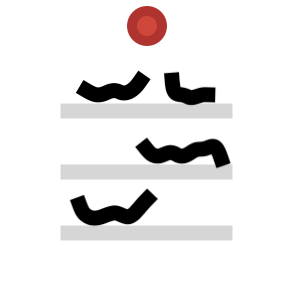
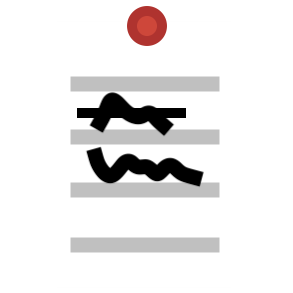
Fix dynamic board comp. scaling, update lists

Changed region(s): [[0.1843, 0.2457, 0.7986, 0.8908]]

diff --git a/src/components/boardComponents/List.js b/src/components/boardComponents/List.js
@@ -22,7 +22,7 @@ function List (props) {
 
     useEffect(() => {
         if (selectedComp === div.current) {
-            div.current.style["border"] = "5px solid red";
+            div.current.style["border"] = "5px solid rgba(225, 30, 30)";
         } else {
             div.current.style["border"] = "0px";
         }
@@ -57,29 +57,42 @@ function List (props) {
         let newBoardComps = {...boardComponents};
         newBoardComps[boardName][compIndex][4][listItemIndex][0] = e.target.value;
         setBoardComponents(newBoardComps);
+        return 1;
     }
 
     const crossOut = (e, listItemIndex) => {
-        let newBoardComps = {...boardComponents};
-        let item = newBoardComps[boardName][compIndex][4][listItemIndex]
-        item[1] = !(item[1]);
-        setBoardComponents(newBoardComps);
+        if (e.target.className !== "delete-list-item-btn") {
+            let newBoardComps = {...boardComponents};
+            let item = newBoardComps[boardName][compIndex][4][listItemIndex]
+            item[1] = !(item[1]);
+            setBoardComponents(newBoardComps);
+            return 1;
+        }
+        return 0;
     }
 
     const addListItem = (txt) => {
         let newBoardComps = {...boardComponents};
         newBoardComps[boardName][compIndex][4].push([txt, false]);
         setBoardComponents(newBoardComps);
+        return 1;
+    }
+
+    const removeListItem = (i) => {
+        let newBoardComps = {...boardComponents};
+        newBoardComps[boardName][compIndex][4].splice(i, 1);
+        setBoardComponents(newBoardComps);
+        return 1;
     }
 
 
     return <div className="list-div" ref={div} k={k} style={{
         position: "absolute",
-        left: `${posX - 405}px`,
-        top: `${posY - 200}px`,
+        left: `${(((posX - 200) / (window.innerWidth - 200)) * 100) - 10}%`,
+        top: `${((posY / window.innerHeight) * 100) - 22}%`,
         backgroundColor: color
     }}>
-        <Pin/>
+        <Pin className="pin"/>
         <button className="add-list-item" onClick={(e) => {
             let theseContents = boardComponents[boardName][compIndex][4]
             if ((theseContents.length === 0) || theseContents[theseContents.length - 1][0] !== "") {
@@ -89,30 +102,24 @@ function List (props) {
 
         <ul>
             {boardComponents[boardName][compIndex][4].map((elem, i) => {
-                if (elem[1]) {
-                    // checked
-                    return <li 
-                        className="list-item" 
-                        key={`${boardName}-${compIndex}-${i}`} 
-                        ref={listItems[i]} 
-                        onInput={(e) => updateContent(e, i)}
-                        style={{"textDecoration": "line-through"}}
-                        onClick={(e) => crossOut(e, i)}
-                    >{` ${elem[0]} `}</li>
-                } else {
-                    // not checked
-                    return <li 
-                        className="list-item" 
-                        key={`${boardName}-${compIndex}-${i}`} 
-                        ref={listItems[i]} 
-                        onInput={(e) => updateContent(e, i)}
-                        onClick={(e) => crossOut(e, i)}
-                    >{` ${elem[0]} `}</li>
-                }
+                return <li 
+                    className="list-item" 
+                    key={`${boardName}-${compIndex}-${i}`} 
+                    ref={listItems[i]} 
+                    style={elem[1] ? {"textDecoration": "line-through"} : {}}
+                    onInput={(e) => updateContent(e, i)}
+                    onClick={(e) => crossOut(e, i)}
+                >
+                    <span>{` ${elem[0]} `}</span>
+                    <div className="list-item-underline"></div>
+                    {(selectedComp === div.current) ? 
+                        <button className="delete-list-item-btn" onClick={() => removeListItem(i)}>X</button> 
+                    : ""}
+                </li>
             })}
         </ul>
 
-        {showInput ? <input className="new-item-input" id={`item-input-${boardName}-${compIndex}`} type="text" autoFocus></input> : ""}
+        {showInput ? <input className="new-item-input" id={`item-input-${boardName}-${compIndex}`} type="text" autoFocus onBlur={() => {setShowInput(false)}}></input> : ""}
     </div>
 
 }

diff --git a/src/styles/List.css b/src/styles/List.css
@@ -1,55 +1,91 @@
 .list-div {
-    background-image: url("../images/listBackground.png");
     position: absolute;
-    height: 450px;
-    width: 250px;
+    height: 22vw;
+    width: 12vw;
     box-shadow: 4px 8px 10px rgba(24, 24, 24, 0.6);
     font-family: inherit;
-    overflow: visible;
     box-sizing: border-box;
+    background-color: white;
+    overflow: visible;
 }
 
 
 .add-list-item {
     position: relative;
     float: right;
-    margin-top: -15px;
+    margin-top: -25px;
     margin-right: 10px;
-    height: 28px;
-    width: 28px;
-    border: 2px solid;
-    border-radius: 5px;
-    background-color: #99e675;
-    border-color: #559e33;
-    font-size: 20px;
-    font-weight: 900;
+    height: 40px;
+    width: 35px;
+    color: rgb(200, 200, 200);
+    font-size: 40px;
+    background-color: rgba(0, 0, 0, 0);
+    border-color: rgba(0, 0, 0, 0);
 }
 
 .list-item {
-    color: black;
-    margin-top: 4px;
+    position: relative;
+    margin-top: 0px;
+    margin-bottom: -15px;
     margin-left: -30px;
+    width: 100%;
     height: min-content;
+    color: black;
     font-family: "Comic Sans MS";
     font-weight: 600;
     font-size: 22px;
-    line-height: 35px;
+}
+
+.list-item > span {
+    color: inherit;
+    margin-left: -15px;
+    line-height: 10px;
+    height: min-content;
+}
+
+.list-item-underline {
+    width: 100%;
+    height: 10px;
+    top: -15px;
+    position: relative;
+    background-color: rgb(200, 200, 200);
+    display: inline-block;
+    visibility: visible;
 }
 
 .list-div > ul {
+    position: relative;
     margin-top: 0px;
-    margin-left: 0px;
+    margin-left: 0%;
     list-style: square inside;
+    width: 90%;
+    max-height: 85%;
+    overflow-y: scroll;
+    overflow-x: visible;
 }
 
 .new-item-input {
     color: black;
-    margin-top: -4px;
+    margin-top: -30px;
     font-family: "Comic Sans MS";
     font-weight: 600;
     font-size: 20px;
-    margin-left: 20px;
+    margin-left: 5%;
     height: 20px;
-    width: 200px;
+    width: 90%;
     background-color: rgba(0, 0, 0, 0);
+}
+
+.delete-list-item-btn {
+    display: inline;
+    position: relative;
+    float: right;
+    color: rgba(225, 30, 30);
+    background-color: rgba(0, 0, 0, 0);
+    border-width: 0px;
+    height: 20px;
+    margin-bottom: -20px;
+    top: -55px;
+    font-weight: 900;
+    font-size: 20px;
 }

diff --git a/src/styles/Sheet.css b/src/styles/Sheet.css
@@ -1,8 +1,7 @@
 .sheet-div {
     position: absolute;
-    background-image: url("../images/sheetBackground.png");
-    height: 450px;
-    width: 350px;
+    height: 24vw;
+    width: 18vw;
     background-color: white;
     box-shadow: 4px 8px 10px rgba(24, 24, 24, 0.6);
     font-family: inherit;
@@ -11,10 +10,10 @@
 }
 
 .sheet-textarea {
-    height: 330px;
-    width: 250px;
+    height: 90%;
+    width: 90%;
     text-align: left;
-    font-size: 18.65px;
+    font-size: 18px;
     background-color: rgb(0, 0, 0, 0);
     border-width: 0px;
     resize: none;
@@ -22,8 +21,9 @@
     color: rgb(5, 5, 5);
     font-weight: 600;
     position: relative;
-    left: 77px;
-    top: 50px;
+    left: 5%;
+    top: 0%;
     line-height: 25.5px;
     max-lines: 13;
+    overflow-y: scroll;
 }

diff --git a/src/components/boardComponents/StickyNote.js b/src/components/boardComponents/StickyNote.js
@@ -15,7 +15,7 @@ function StickyNote (props) {
 
     useEffect(() => {
         if (selectedComp === div.current) {
-            div.current.style["border"] = "5px solid red";
+            div.current.style["border"] = "5px solid rgba(225, 30, 30)";
         } else {
             div.current.style["border"] = "0px";
         }
@@ -24,8 +24,8 @@ function StickyNote (props) {
 
     return <div className="sticky-note-div" ref={div} k={k} style={{
         position: "absolute",
-        left: `${posX - 375}px`,
-        top: `${posY - 75}px`,
+        left: `${(((posX - 200) / (window.innerWidth - 200)) * 100) - 10}%`,
+        top: `${((posY / window.innerHeight) * 100) - 10}%`,
         backgroundColor: color
     }}>
         <textarea

diff --git a/src/components/boardComponents/Sheet.js b/src/components/boardComponents/Sheet.js
@@ -17,7 +17,7 @@ function Sheet (props) {
 
     useEffect(() => {
         if (selectedComp === div.current) {
-            div.current.style["border"] = "5px solid red";
+            div.current.style["border"] = "5px solid rgba(225, 30, 30)";
         } else {
             div.current.style["border"] = "0px";
         }
@@ -26,8 +26,8 @@ function Sheet (props) {
 
     return <div className="sheet-div" ref={div} k={k} style={{
         position: "absolute",
-        left: `${posX - 450}px`,
-        top: `${posY - 200}px`
+        left: `${(((posX - 200) / (window.innerWidth - 200)) * 100) - 14}%`,
+        top: `${((posY / window.innerHeight) * 100) - 24}%`
     }}>
         <Pin/>
         <textarea

diff --git a/src/styles/Board.css b/src/styles/Board.css
@@ -1,8 +1,8 @@
 .main-board-div {
     background-color: rgb(174, 148, 96);
     border: 25px outset rgb(33, 33, 33);
-    height: 75%;
-    width: 80%;
+    height: 40vw;
+    width: 65vw;
     display: flex;
     align-items: center;
     justify-content: center;

diff --git a/src/styles/StickyNote.css b/src/styles/StickyNote.css
@@ -1,7 +1,7 @@
 .sticky-note-div {
     position: absolute;
-    height: 200px;
-    width: 200px;
+    height: 10vw;
+    width: 10vw;
     display: flex;
     align-items: center;
     justify-content: center;

diff --git a/src/styles/AddCompMenu.css b/src/styles/AddCompMenu.css
@@ -37,9 +37,9 @@
 .comp-img {
     position: relative;
     height: auto;
-    width: 40px;
-    left: 10px;
-    top: 10px;
+    width: 50px;
+    left: 5px;
+    top: 5px;
 }
 
 #sticky-note-img {
